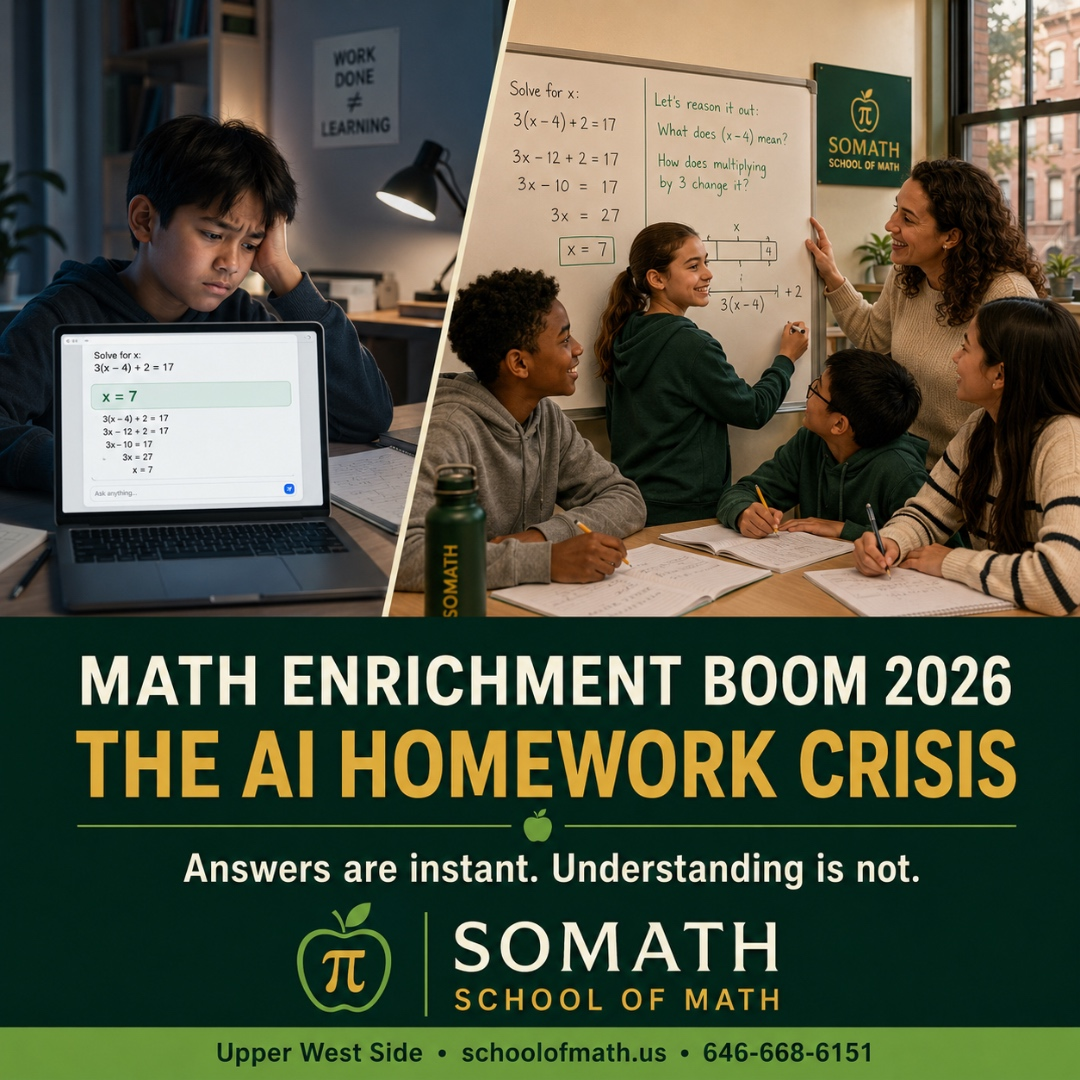
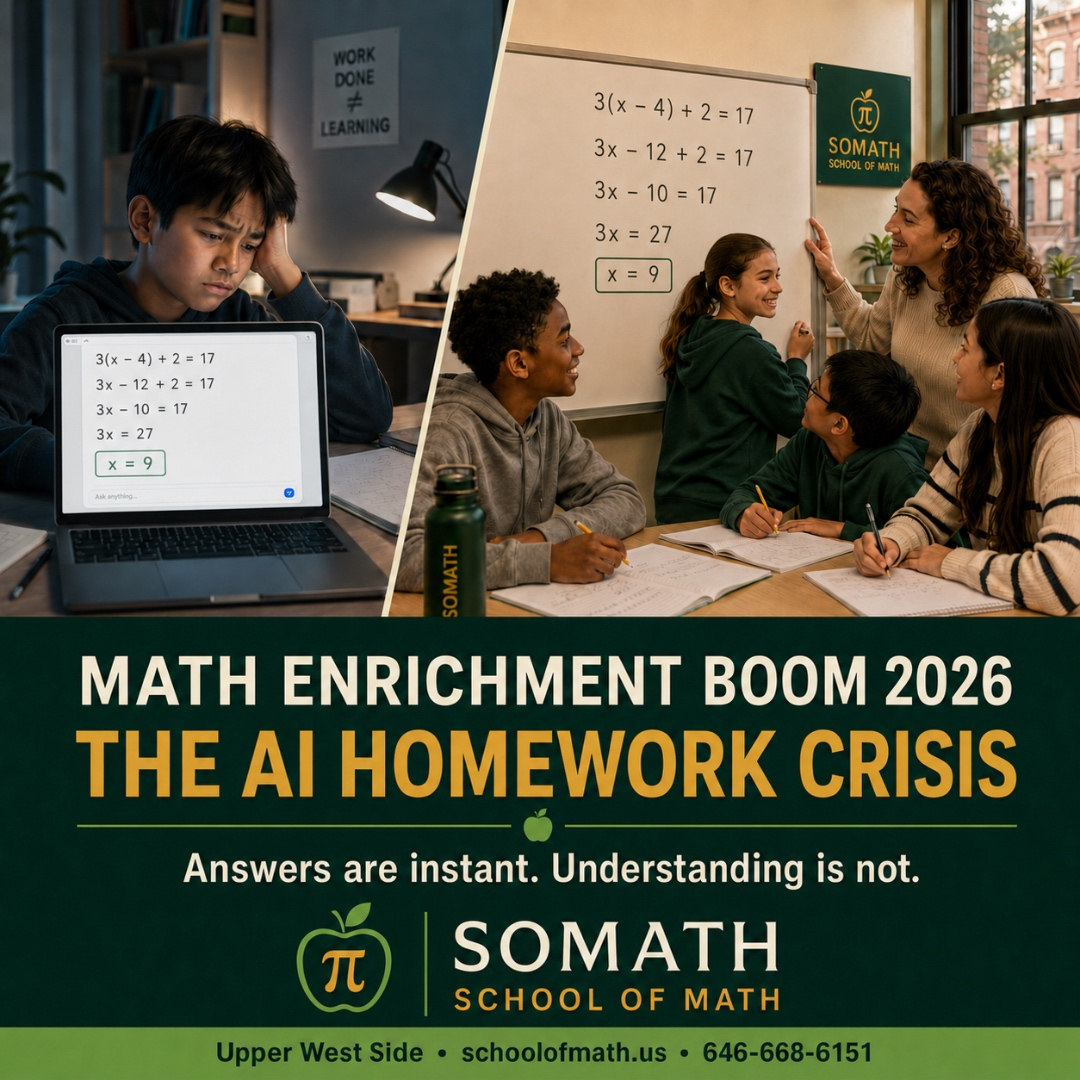
Swap cover image (cleaner v2, correct x=9 solve)

diff --git a/posts/math-enrichment-boom-2026-ai-homework-crisis-nyc.html b/posts/math-enrichment-boom-2026-ai-homework-crisis-nyc.html
@@ -186,7 +186,7 @@
       <p class="post__meta" style="color:#7a7974; font-size:0.9rem; margin:0 0 24px;"><time datetime="2026-08-12">August 12, 2026</time> &middot; By the SOMATH team &middot; 226 W 79th St, Upper West Side &middot; (646) 668-6151</p>
 
       <figure style="margin:0 0 28px; border-radius:10px; overflow:hidden; box-shadow:0 2px 12px rgba(31,61,46,0.10);">
-        <img src="/assets/blog/math-enrichment-boom-2026-ai-homework-crisis-nyc/cover.jpg" alt="Split image: on the left, a frustrated middle-schooler in front of a laptop showing an AI chatbot solving 3(x−4)+2=17; on the right, a small group of SOMATH students at a whiteboard reasoning through the same equation step by step with their teacher. Headline: Math Enrichment Boom 2026 — The AI Homework Crisis. Answers are instant. Understanding is not." width="1080" height="1080" style="display:block; width:100%; height:auto;" loading="eager" fetchpriority="high" />
+        <img src="/assets/blog/math-enrichment-boom-2026-ai-homework-crisis-nyc/cover.jpg" alt="Split image: on the left, a frustrated middle-schooler in front of a laptop showing an AI chatbot solving 3(x−4)+2=17 and giving the answer x=9; on the right, a small group of SOMATH students working through the same equation on a whiteboard with their teacher on the Upper West Side. Headline: Math Enrichment Boom 2026 — The AI Homework Crisis. Answers are instant. Understanding is not." width="1080" height="1080" style="display:block; width:100%; height:auto;" loading="eager" fetchpriority="high" />
       </figure>
 
       <div class="post__body">
